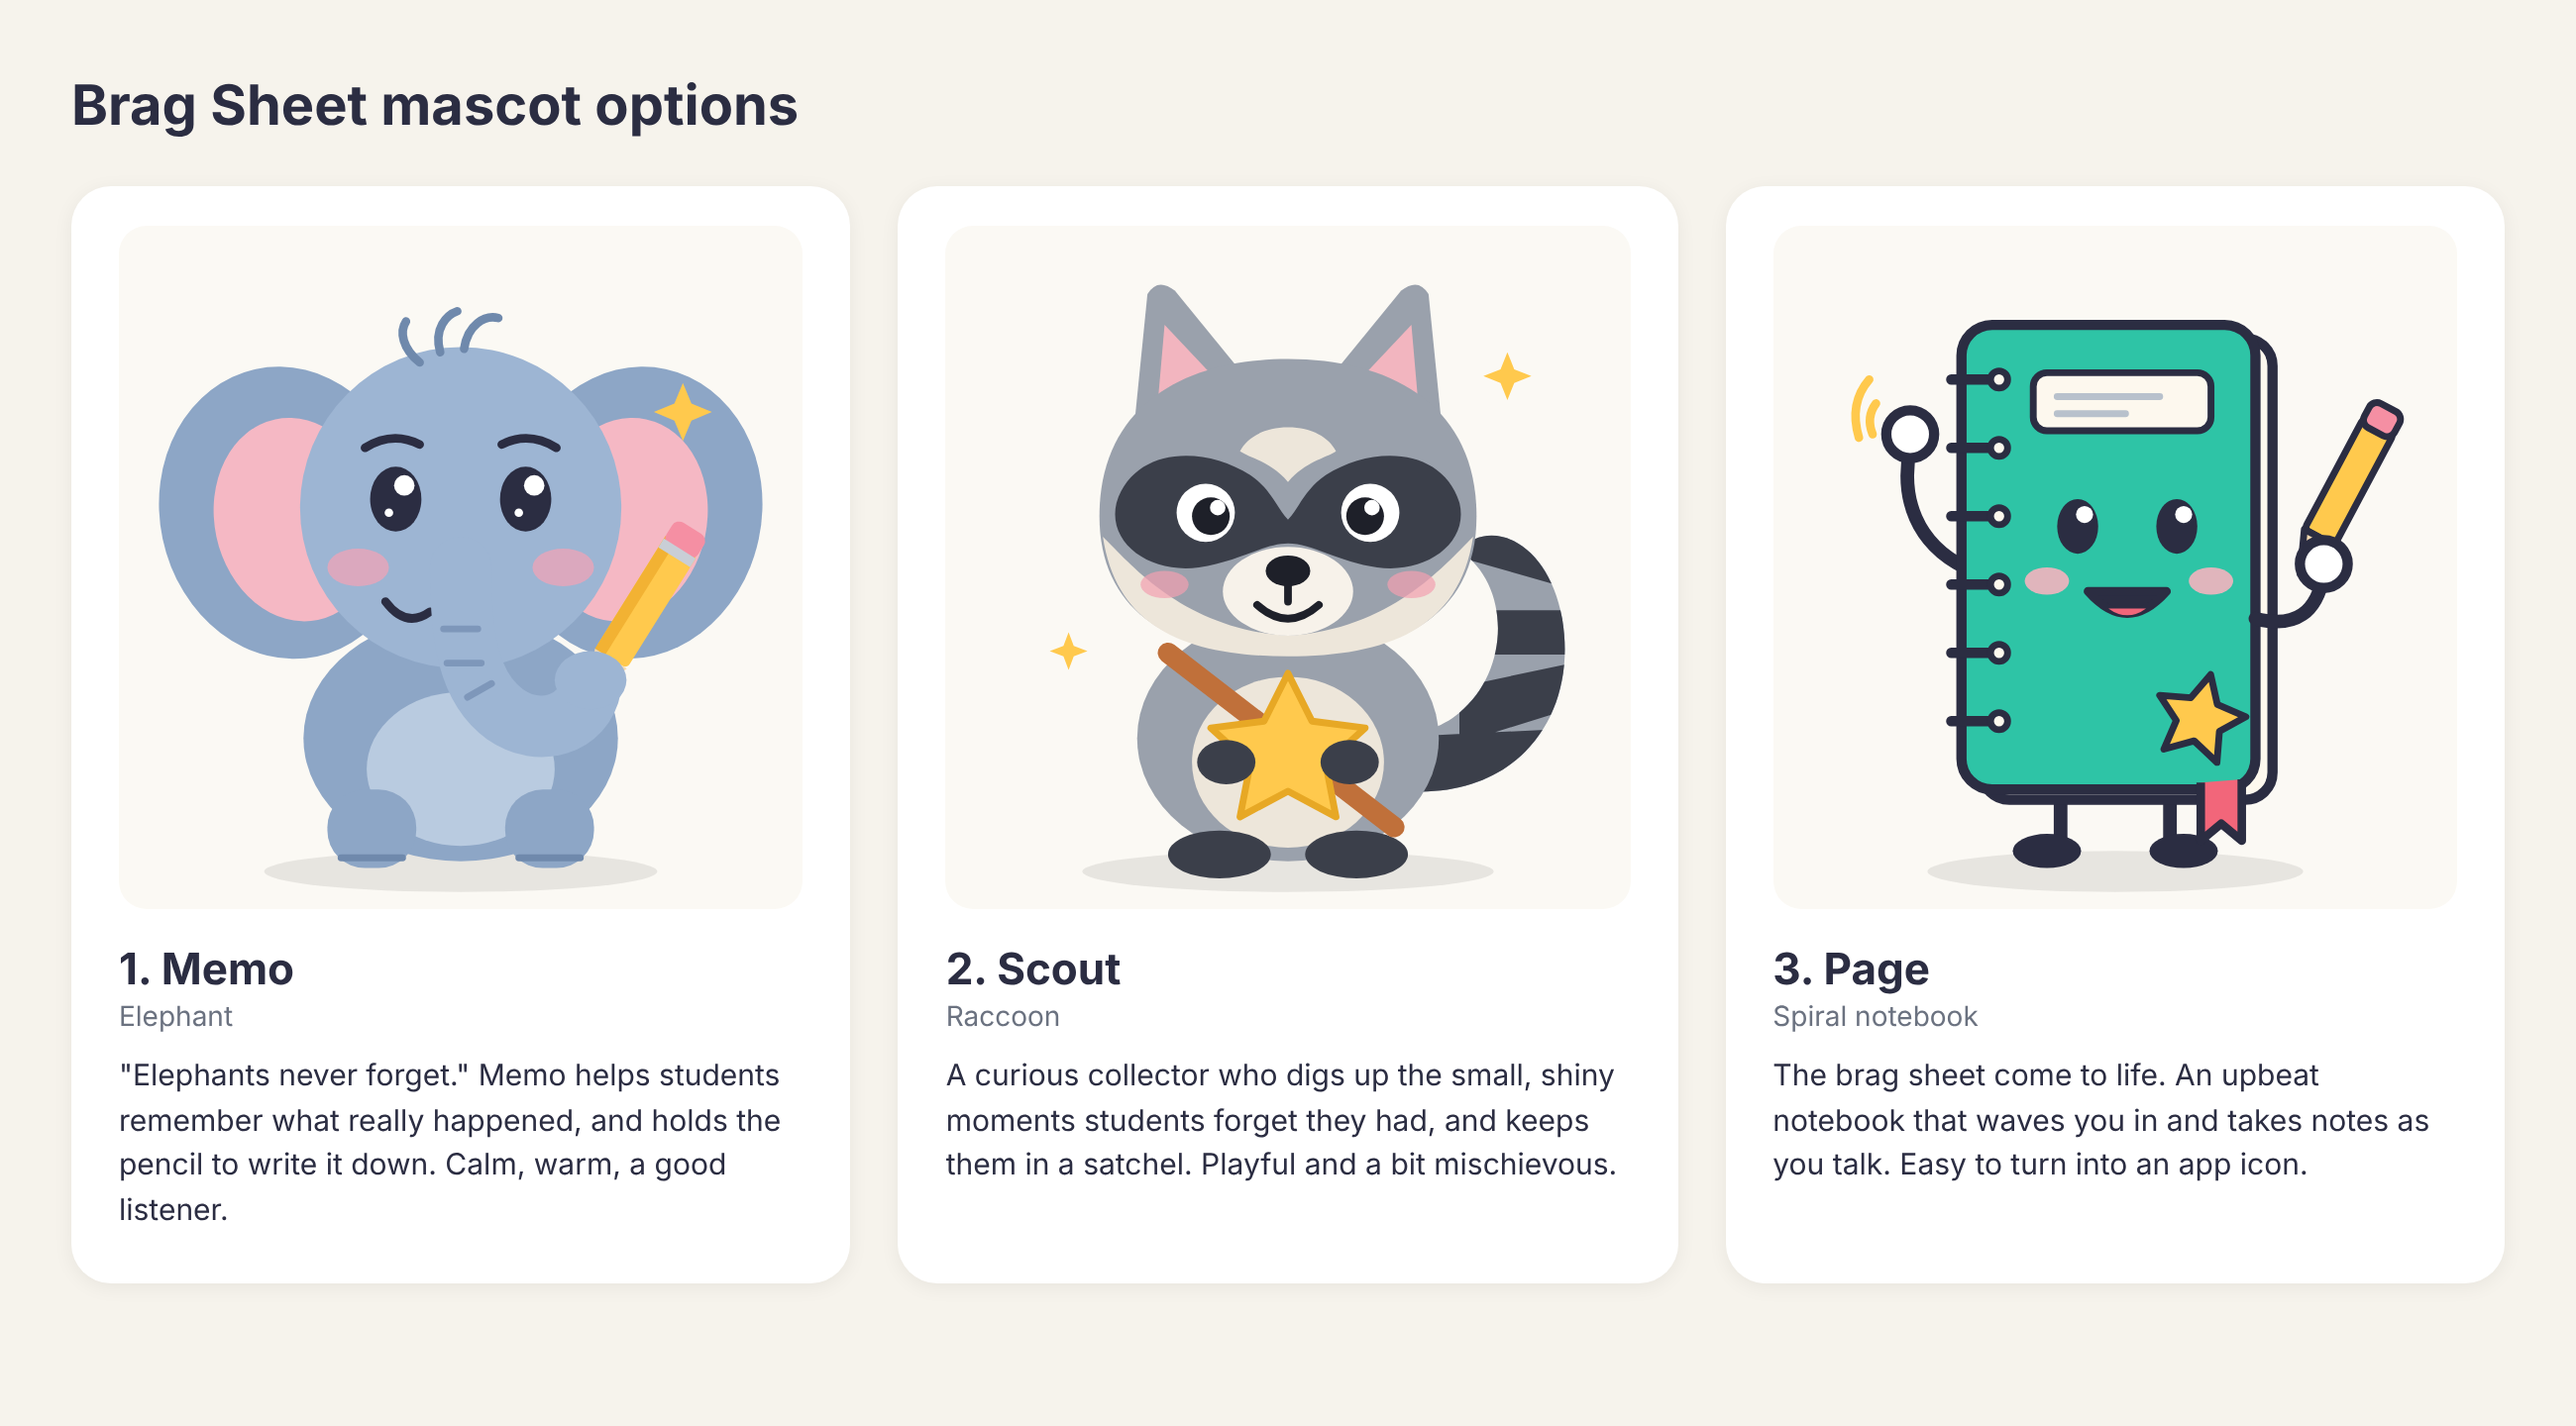
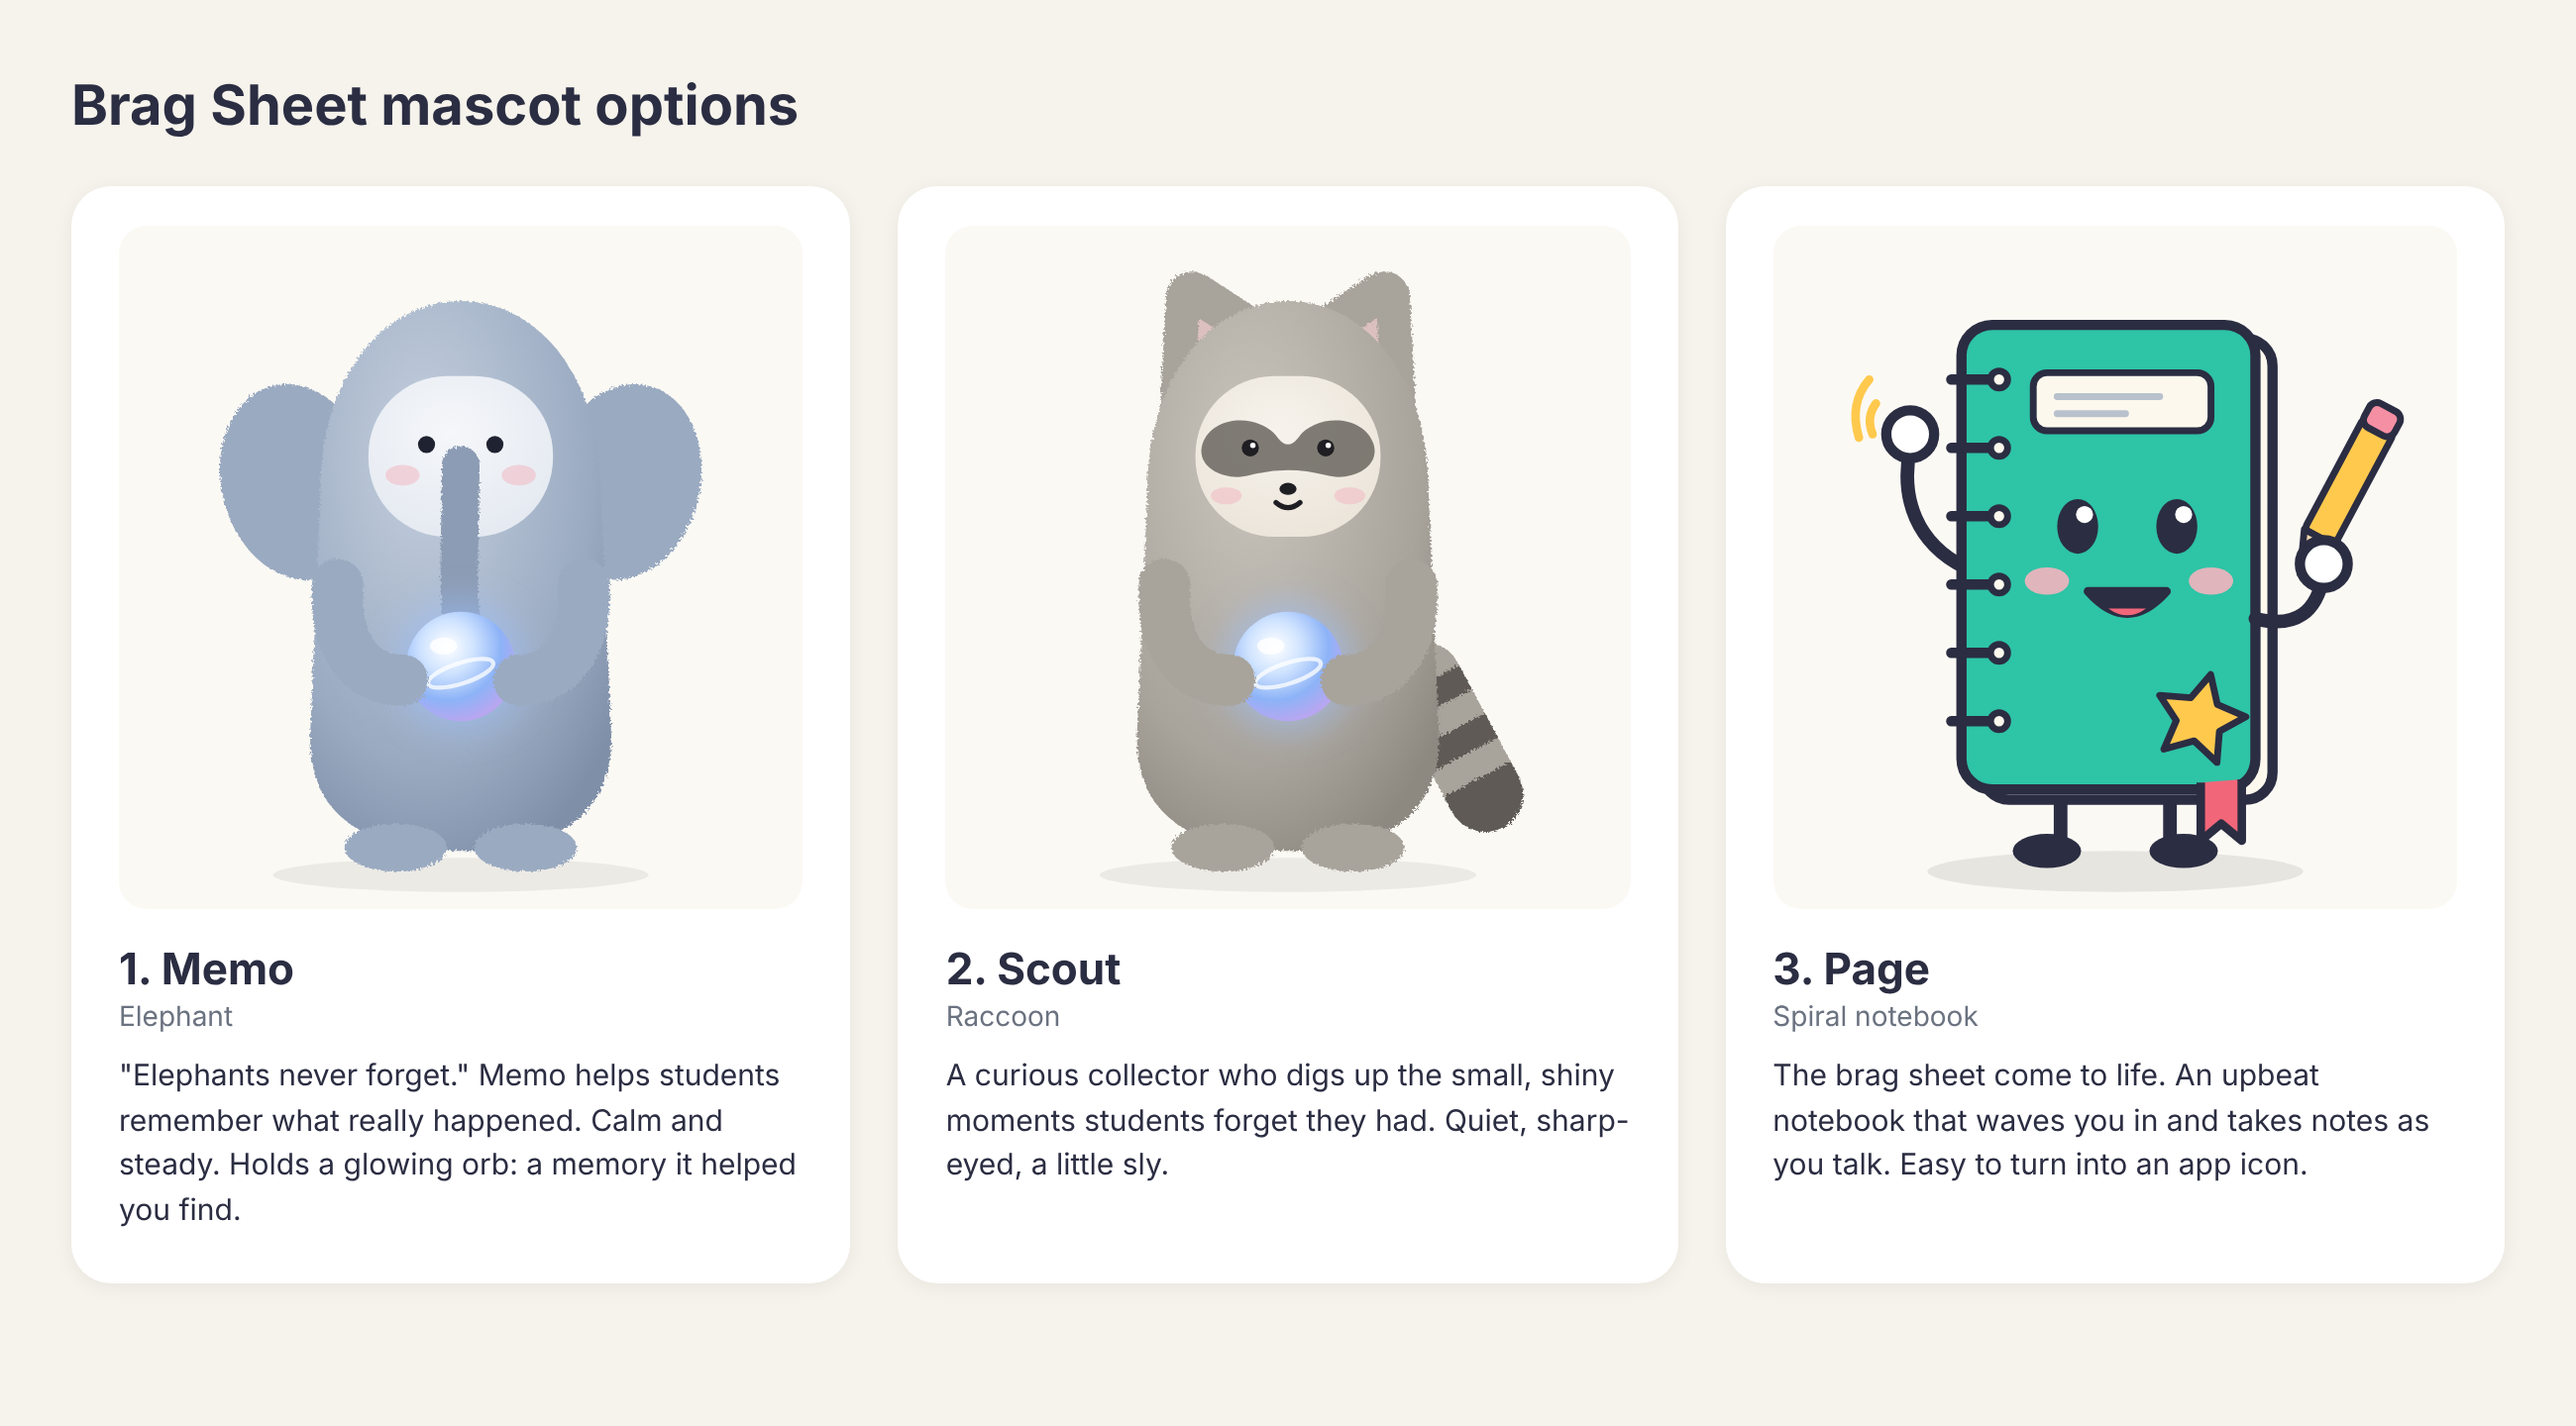
Restyle Memo and Scout as soft, minimal plush-style mascots
Claude-Session: https://claude.ai/code/session_01RY6asvPZchAGyFrqusiNyK

diff --git a/mascots/index.html b/mascots/index.html
@@ -11,9 +11,9 @@ p{margin:0;line-height:1.5;font-size:15px}
 <h1>Brag Sheet mascot options</h1>
 <div class="grid">
 <div class="card"><img src="memo-elephant.svg"><h2>1. Memo</h2><div class="kind">Elephant</div>
-<p>"Elephants never forget." Memo helps students remember what really happened, and holds the pencil to write it down. Calm, warm, a good listener.</p></div>
+<p>"Elephants never forget." Memo helps students remember what really happened. Calm and steady. Holds a glowing orb: a memory it helped you find.</p></div>
 <div class="card"><img src="scout-raccoon.svg"><h2>2. Scout</h2><div class="kind">Raccoon</div>
-<p>A curious collector who digs up the small, shiny moments students forget they had, and keeps them in a satchel. Playful and a bit mischievous.</p></div>
+<p>A curious collector who digs up the small, shiny moments students forget they had. Quiet, sharp-eyed, a little sly.</p></div>
 <div class="card"><img src="page-notebook.svg"><h2>3. Page</h2><div class="kind">Spiral notebook</div>
 <p>The brag sheet come to life. An upbeat notebook that waves you in and takes notes as you talk. Easy to turn into an app icon.</p></div>
 </div></body></html>
